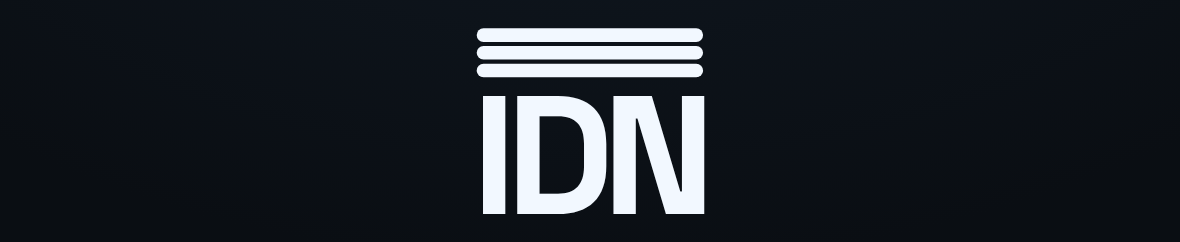
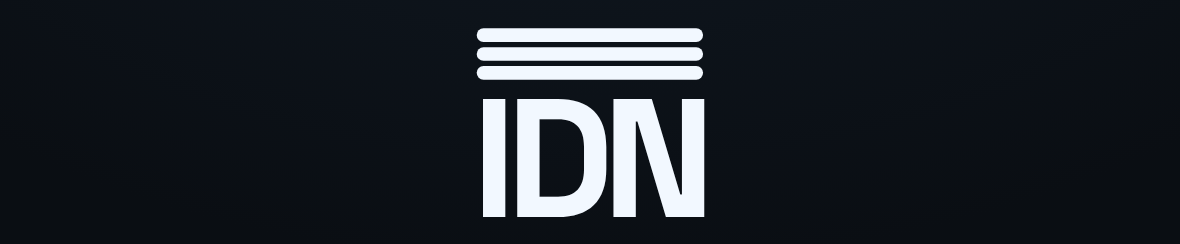
design(grade-lab): 4% wave gap, 4.5% line gap

diff --git a/design/grade-lab/lockup.js b/design/grade-lab/lockup.js
@@ -92,12 +92,9 @@ export function renderLockup(host, opts) {
   //   波浪↔波浪 = 1 个描边宽（两个波才分得开）
   //   波浪↔直线 = 半个描边宽（谷底到直线）
   //   直线↔直线 = 0.035 cap
+  // 波浪之间 4%，其余 4.5% —— 比等号稍紧一点，但视觉上是同一个量级。
   const gapFor = (below, above) =>
-    below === 'wave' && above === 'wave'
-      ? cap * 0.035
-      : below === 'wave' || above === 'wave'
-        ? stem * 0.5
-        : cap * 0.035;
+    below === 'wave' && above === 'wave' ? cap * 0.04 : cap * 0.045;
 
   /*
    * 一行可能在另一行的上方，两行之间的距离不是简单“半高相加”：

diff --git a/prototype/FUTURE.md b/prototype/FUTURE.md
@@ -69,7 +69,7 @@
   波纹逐级消失（`≈` 两波 → `≃` 一波一横 → `≅` 一波两横 → `≡` 三横），不依赖字体覆盖。
 - **锁版规则**：符号与字同宽（取字母实测包围盒，再收半个描边做视觉修正）、描边 = 字干
   （cap height 的 11.5%）、记号底边离 cap line 0.16 cap；行距按行类型给：
-  波浪之间与横线之间都是 3.5% cap，波浪到横线半个描边宽；波纹振幅 7.5% cap。
+  波浪之间 4% cap，波浪到横线 / 横线之间 4.5% cap；波纹振幅 7.5% cap。
   默认摆法是「整枚记号压在字上方」。
 - 恰好 100% 记为 **`IDN+`**（`IDN` 覆盖 99–100%，`IDN+` 只在满分时出现）。
 - 字母词表待定（当前提案 `APX / ASM / CGR / IDN`）。

diff --git a/design/grade-lab/README.md b/design/grade-lab/README.md
@@ -30,7 +30,7 @@
 | --- | --- |
 | 同宽 | 符号左右边界 = 三个字母的包围盒（再收半个描边做视觉修正） |
 | 同粗 | 描边 = 字干粗细（≈ cap height 的 11.5%） |
-| 对齐 | 记号底边离 cap line 0.16 cap；行距：波浪之间、横线之间都是 **3.5% cap**，波浪到横线 **半个描边宽** |
+| 对齐 | 记号底边离 cap line 0.16 cap；行距：波浪之间 **4% cap**，波浪到横线 / 横线之间 **4.5% cap** |
 | 振幅 | 波纹 7.5% cap：再大，两条波浪在“1 个描边宽”的间距下会视觉粘连 |
 
 符号也是自绘 SVG：`≈` 两波 → `≃` 一波一横 → `≅` 一波两横 → `≡` 三横。
